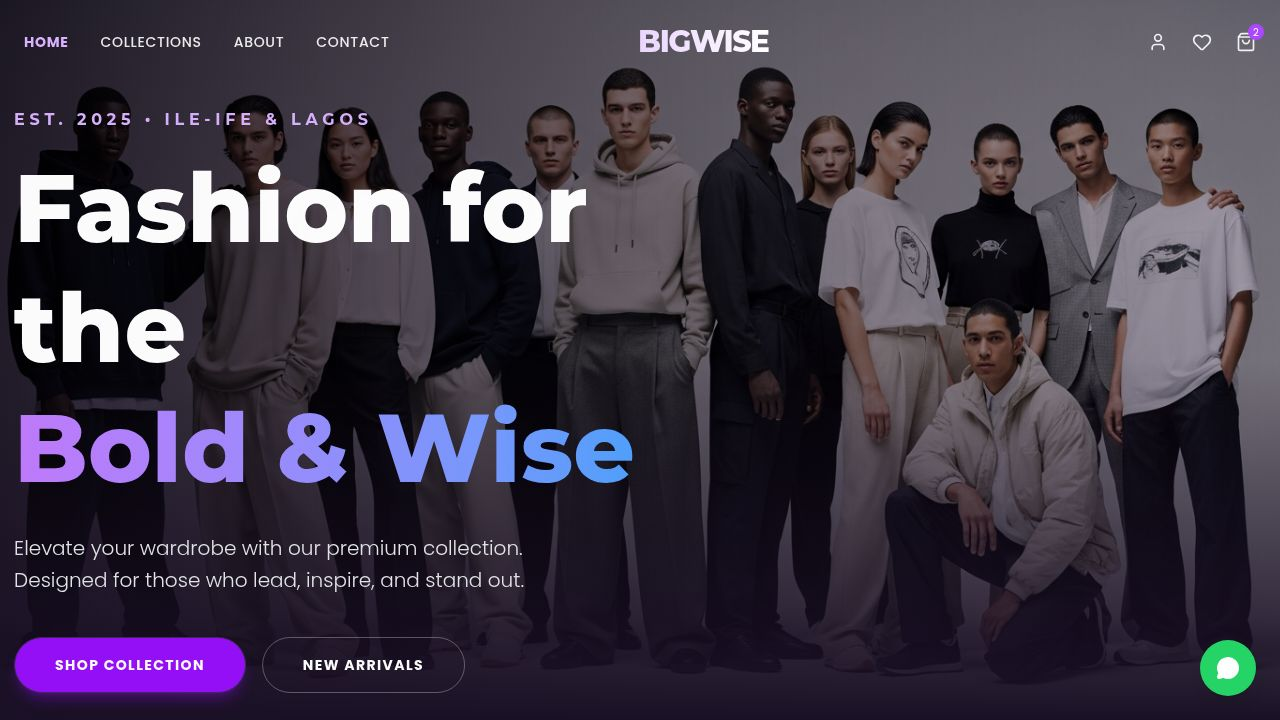
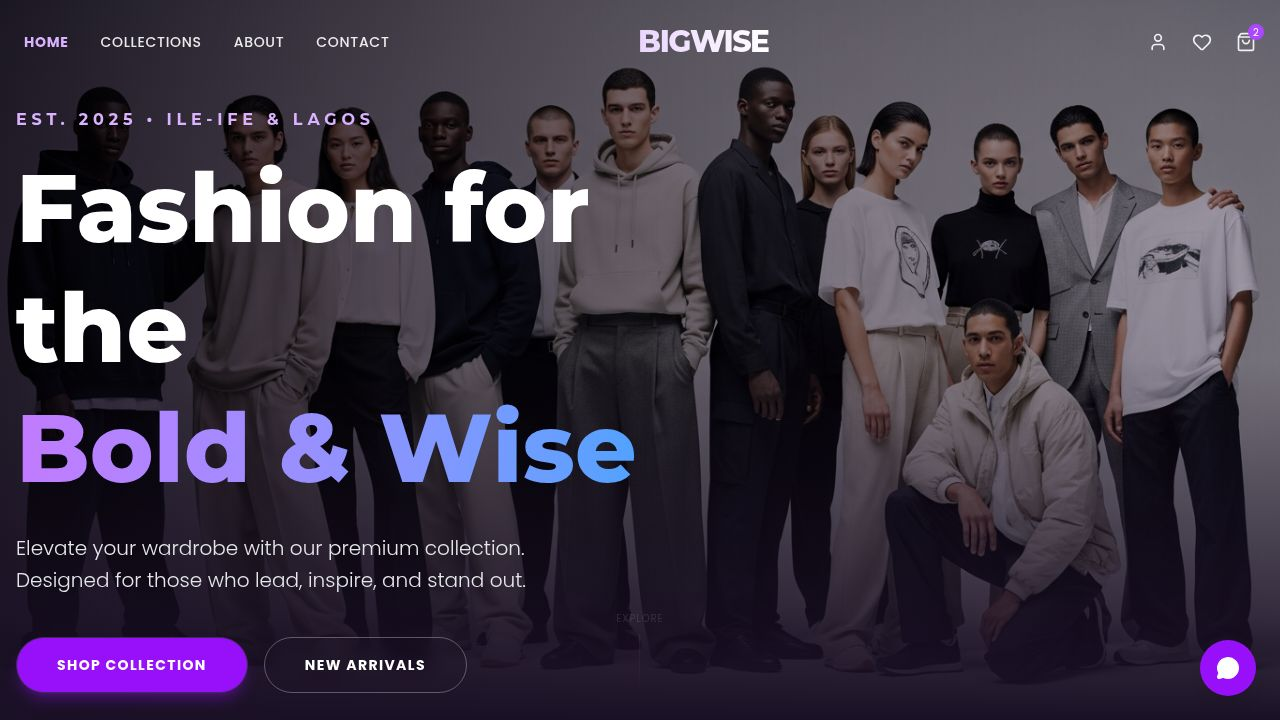
Add direct chat functionality and new shopping sections
Introduces a new chat widget component, replaces the WhatsApp button with a purple chat button, and adds new "Shop by Gender" tiles to the homepage. Also enforces consistent padding and max-width containers across various pages for improved layout and user experience.

Replit-Commit-Author: Agent
Replit-Commit-Session-Id: f035932f-7987-4ced-8709-e658555167ae
Replit-Commit-Checkpoint-Type: full_checkpoint
Replit-Commit-Event-Id: 75c4e75d-5485-4005-87b2-cb719e6a286b
Replit-Commit-Screenshot-Url: https://storage.googleapis.com/screenshot-production-us-central1/88b3463e-c278-4c11-aa2b-143401b9b753/f035932f-7987-4ced-8709-e658555167ae/9nJqeEU
Replit-Helium-Checkpoint-Created: true

diff --git a/client/src/pages/Home.tsx b/client/src/pages/Home.tsx
@@ -1,9 +1,10 @@
 import { Navbar } from "@/components/layout/Navbar";
 import { Footer } from "@/components/layout/Footer";
+import { ChatWidget } from "@/components/ChatWidget";
 import { Hero } from "@/components/home/Hero";
 import { FeaturedCollections } from "@/components/home/FeaturedCollections";
 import { InstagramFeed } from "@/components/home/InstagramFeed";
-import { MessageCircle, Star, ArrowRight, Mail, Camera } from "lucide-react";
+import { Star, ArrowRight, Mail, Camera } from "lucide-react";
 import { Button } from "@/components/ui/button";
 import { Link } from "wouter";
 import { motion } from "framer-motion";
@@ -11,6 +12,8 @@ import trendingImg1 from "@assets/generated_images/male_fashion_model_urban_styl
 import trendingImg2 from "@assets/generated_images/female_fashion_model_elegance.png";
 import trendingImg3 from "@assets/generated_images/fashion_accessories_still_life.png";
 import trendingImg4 from "@assets/generated_images/product_fashion_item_close-up.png";
+import menImg from "@assets/stock_images/black_male_model_wit_21bad727.jpg";
+import womenImg from "@assets/stock_images/light-skinned_girl_w_07bef161.jpg";
 
 // Placeholder for Trending Items
 const trendingItems = [
@@ -32,7 +35,7 @@ export default function Home() {
         
         {/* Trending Section */}
         <section className="py-20 md:py-24 bg-gradient-to-b from-[#1a1025] to-[#251b35] px-4">
-          <div className="container mx-auto">
+          <div className="container mx-auto max-w-7xl">
             <div className="flex flex-col sm:flex-row justify-between items-start sm:items-center mb-12 gap-4">
               <h2 className="text-3xl md:text-4xl font-heading font-bold">Trending Now</h2>
               <Link href="/collections">
@@ -71,9 +74,74 @@ export default function Home() {
           </div>
         </section>
 
+        {/* Shop by Gender Section */}
+        <section className="py-20 md:py-24 bg-gradient-to-b from-[#251b35] to-[#1a1025] px-4">
+          <div className="container mx-auto max-w-7xl">
+            <h2 className="text-3xl md:text-4xl font-heading font-bold mb-12 text-center">Shop By Category</h2>
+            
+            <div className="grid grid-cols-1 md:grid-cols-2 gap-6 md:gap-8">
+              {/* Men Section */}
+              <motion.div
+                initial={{ opacity: 0, x: -50 }}
+                whileInView={{ opacity: 1, x: 0 }}
+                viewport={{ once: true }}
+                transition={{ duration: 0.6 }}
+                className="group cursor-pointer relative overflow-hidden rounded-2xl"
+              >
+                <Link href="/collections">
+                  <a className="block relative">
+                    <div className="aspect-[3/4] overflow-hidden">
+                      <img 
+                        src={menImg} 
+                        alt="Men's Collection" 
+                        className="w-full h-full object-cover group-hover:scale-110 transition-transform duration-700"
+                      />
+                    </div>
+                    <div className="absolute inset-0 bg-gradient-to-t from-black/80 via-black/20 to-transparent flex flex-col justify-end p-8 group-hover:from-black/90 transition-all duration-300">
+                      <h3 className="text-3xl md:text-5xl font-heading font-bold mb-3">MEN</h3>
+                      <p className="text-gray-200 mb-4 text-sm md:text-base">Explore our latest men's collection</p>
+                      <div className="inline-flex items-center gap-2 text-sm uppercase tracking-widest font-bold text-purple-300 group-hover:text-white transition-colors">
+                        Shop Now <ArrowRight size={16} />
+                      </div>
+                    </div>
+                  </a>
+                </Link>
+              </motion.div>
+
+              {/* Women Section */}
+              <motion.div
+                initial={{ opacity: 0, x: 50 }}
+                whileInView={{ opacity: 1, x: 0 }}
+                viewport={{ once: true }}
+                transition={{ duration: 0.6, delay: 0.2 }}
+                className="group cursor-pointer relative overflow-hidden rounded-2xl"
+              >
+                <Link href="/collections">
+                  <a className="block relative">
+                    <div className="aspect-[3/4] overflow-hidden">
+                      <img 
+                        src={womenImg} 
+                        alt="Women's Collection" 
+                        className="w-full h-full object-cover group-hover:scale-110 transition-transform duration-700"
+                      />
+                    </div>
+                    <div className="absolute inset-0 bg-gradient-to-t from-black/80 via-black/20 to-transparent flex flex-col justify-end p-8 group-hover:from-black/90 transition-all duration-300">
+                      <h3 className="text-3xl md:text-5xl font-heading font-bold mb-3">WOMEN</h3>
+                      <p className="text-gray-200 mb-4 text-sm md:text-base">Discover our women's collection</p>
+                      <div className="inline-flex items-center gap-2 text-sm uppercase tracking-widest font-bold text-purple-300 group-hover:text-white transition-colors">
+                        Shop Now <ArrowRight size={16} />
+                      </div>
+                    </div>
+                  </a>
+                </Link>
+              </motion.div>
+            </div>
+          </div>
+        </section>
+
         {/* Become Our Model Section */}
         <section className="py-20 md:py-24 bg-gradient-to-r from-purple-900/30 to-blue-900/30 px-4">
-          <div className="container mx-auto">
+          <div className="container mx-auto max-w-7xl">
             <div className="max-w-3xl mx-auto text-center">
               <motion.div
                 initial={{ opacity: 0, y: 20 }}
@@ -104,7 +172,7 @@ export default function Home() {
         {/* Testimonials */}
         <section className="py-20 md:py-24 relative overflow-hidden px-4">
           <div className="absolute inset-0 bg-purple-900/10 -skew-y-3 transform origin-left scale-110" />
-          <div className="container mx-auto relative z-10">
+          <div className="container mx-auto max-w-7xl relative z-10">
             <h2 className="text-3xl md:text-4xl font-heading font-bold text-center mb-12 md:mb-16">What Our Clients Say</h2>
             <div className="grid grid-cols-1 md:grid-cols-3 gap-6 md:gap-8">
               {[
@@ -130,7 +198,7 @@ export default function Home() {
         {/* Newsletter */}
         <section className="py-20 md:py-24 bg-purple-900 text-white relative overflow-hidden px-4">
           <div className="absolute inset-0 bg-[url('https://www.transparenttextures.com/patterns/cubes.png')] opacity-10" />
-          <div className="container mx-auto text-center relative z-10">
+          <div className="container mx-auto max-w-7xl text-center relative z-10">
             <Mail className="w-12 h-12 md:w-16 md:h-16 mx-auto mb-6 text-purple-300" />
             <h2 className="text-3xl md:text-5xl font-heading font-bold mb-6">Join the Bigwise Circle</h2>
             <p className="max-w-xl mx-auto text-purple-200 mb-10 text-base md:text-lg">
@@ -153,18 +221,8 @@ export default function Home() {
       </main>
       <Footer />
       
-      {/* Floating Buttons */}
-      <div className="fixed bottom-6 right-6 z-50 flex flex-col gap-4">
-        <a 
-          href="https://wa.me/1234567890" 
-          target="_blank" 
-          rel="noopener noreferrer"
-          className="bg-[#25D366] text-white p-4 rounded-full shadow-lg hover:scale-110 transition-transform duration-300 flex items-center justify-center"
-          aria-label="Chat on WhatsApp"
-        >
-          <MessageCircle size={24} fill="white" />
-        </a>
-      </div>
+      {/* Chat Widget */}
+      <ChatWidget />
     </div>
   );
 }

diff --git a/client/src/components/ChatWidget.tsx b/client/src/components/ChatWidget.tsx
@@ -1,0 +1,107 @@
+import { useState } from "react";
+import { MessageCircle, X, Send } from "lucide-react";
+import { Button } from "@/components/ui/button";
+
+export function ChatWidget() {
+  const [isOpen, setIsOpen] = useState(false);
+  const [messages, setMessages] = useState([
+    { id: 1, text: "Hey! 👋 How can we help you today?", sender: "bot", timestamp: new Date() }
+  ]);
+  const [inputValue, setInputValue] = useState("");
+
+  const handleSendMessage = () => {
+    if (!inputValue.trim()) return;
+
+    const userMessage = {
+      id: messages.length + 1,
+      text: inputValue,
+      sender: "user",
+      timestamp: new Date()
+    };
+
+    setMessages([...messages, userMessage]);
+    setInputValue("");
+
+    // Simulate bot response
+    setTimeout(() => {
+      const botMessage = {
+        id: messages.length + 2,
+        text: "Thanks for reaching out! Our team will get back to you shortly. 💜",
+        sender: "bot",
+        timestamp: new Date()
+      };
+      setMessages(prev => [...prev, botMessage]);
+    }, 500);
+  };
+
+  return (
+    <>
+      {/* Chat Widget Button */}
+      <button
+        onClick={() => setIsOpen(!isOpen)}
+        className="fixed bottom-6 right-6 z-50 bg-purple-600 hover:bg-purple-700 text-white p-4 rounded-full shadow-lg hover:scale-110 transition-transform duration-300 flex items-center justify-center"
+        aria-label="Open chat"
+      >
+        <MessageCircle size={24} fill="white" />
+      </button>
+
+      {/* Chat Modal */}
+      {isOpen && (
+        <div className="fixed bottom-24 right-6 w-96 max-w-[calc(100vw-32px)] bg-[#1a1025] rounded-2xl border border-purple-500/30 shadow-2xl shadow-purple-600/20 flex flex-col h-96 z-50 animate-in slide-in-from-bottom-5">
+          {/* Header */}
+          <div className="bg-gradient-to-r from-purple-600 to-purple-700 px-6 py-4 rounded-t-2xl flex justify-between items-center">
+            <div>
+              <h3 className="font-heading font-bold text-white">Bigwise Chat</h3>
+              <p className="text-xs text-purple-100">We typically reply in minutes</p>
+            </div>
+            <button
+              onClick={() => setIsOpen(false)}
+              className="text-white hover:bg-white/20 p-1 rounded transition-colors"
+            >
+              <X size={20} />
+            </button>
+          </div>
+
+          {/* Messages */}
+          <div className="flex-1 overflow-y-auto p-4 space-y-4">
+            {messages.map((msg) => (
+              <div
+                key={msg.id}
+                className={`flex ${msg.sender === "user" ? "justify-end" : "justify-start"}`}
+              >
+                <div
+                  className={`max-w-xs px-4 py-2 rounded-lg text-sm ${
+                    msg.sender === "user"
+                      ? "bg-purple-600 text-white rounded-br-none"
+                      : "bg-white/10 text-gray-200 rounded-bl-none"
+                  }`}
+                >
+                  {msg.text}
+                </div>
+              </div>
+            ))}
+          </div>
+
+          {/* Input */}
+          <div className="border-t border-white/10 p-4 flex gap-2">
+            <input
+              type="text"
+              value={inputValue}
+              onChange={(e) => setInputValue(e.target.value)}
+              onKeyPress={(e) => e.key === "Enter" && handleSendMessage()}
+              placeholder="Type your message..."
+              className="flex-1 bg-white/5 border border-white/20 rounded-lg px-3 py-2 text-white text-sm placeholder:text-white/50 focus:outline-none focus:border-purple-400 transition-colors"
+            />
+            <button
+              onClick={handleSendMessage}
+              disabled={!inputValue.trim()}
+              className="bg-purple-600 hover:bg-purple-700 disabled:opacity-50 text-white p-2 rounded-lg transition-colors flex items-center justify-center"
+            >
+              <Send size={16} />
+            </button>
+          </div>
+        </div>
+      )}
+    </>
+  );
+}

diff --git a/client/src/pages/Collections.tsx b/client/src/pages/Collections.tsx
@@ -24,7 +24,7 @@ export default function Collections() {
     <div className="min-h-screen flex flex-col bg-[#1a1025] text-white font-sans">
       <Navbar />
       <main className="flex-grow pt-24 md:pt-32 pb-12 px-4">
-        <div className="container mx-auto">
+        <div className="container mx-auto max-w-7xl">
           <div className="text-center mb-12 md:mb-16">
             <h1 className="text-3xl md:text-5xl font-heading font-bold mb-4">All Collections</h1>
             <div className="flex flex-wrap justify-center gap-4 md:gap-6 text-xs md:text-sm uppercase tracking-widest font-medium text-gray-400">

diff --git a/client/src/pages/ProductDetail.tsx b/client/src/pages/ProductDetail.tsx
@@ -36,7 +36,7 @@ export default function ProductDetail() {
     <div className="min-h-screen flex flex-col bg-[#1a1025] text-white font-sans">
       <Navbar />
       <main className="flex-grow pt-24 md:pt-32 pb-20 px-4">
-        <div className="container mx-auto">
+        <div className="container mx-auto max-w-7xl">
           <Link href="/collections">
             <a className="inline-flex items-center gap-2 text-purple-300 hover:text-white mb-8 text-sm font-medium transition-colors">
               <ArrowLeft size={16} /> Back to Collections

diff --git a/client/src/components/home/FeaturedCollections.tsx b/client/src/components/home/FeaturedCollections.tsx
@@ -33,7 +33,7 @@ const collections = [
 export function FeaturedCollections() {
   return (
     <section className="py-20 md:py-24 bg-gradient-to-b from-[#1a1025] to-[#251b35] px-4">
-      <div className="container mx-auto">
+      <div className="container mx-auto max-w-7xl">
         <div className="flex flex-col sm:flex-row justify-between items-start sm:items-end mb-12 gap-4">
           <div>
             <h2 className="text-3xl md:text-4xl font-heading font-bold mb-2 md:mb-4">Curated Collections</h2>

diff --git a/client/src/pages/Cart.tsx b/client/src/pages/Cart.tsx
@@ -19,7 +19,7 @@ export default function Cart() {
     <div className="min-h-screen flex flex-col bg-[#1a1025] text-white font-sans">
       <Navbar />
       <main className="flex-grow pt-24 md:pt-32 pb-20 px-4">
-        <div className="container mx-auto">
+        <div className="container mx-auto max-w-7xl">
           <h1 className="text-2xl md:text-4xl font-heading font-bold mb-10">Your Cart</h1>
 
           <div className="grid grid-cols-1 lg:grid-cols-3 gap-8 md:gap-12">

diff --git a/client/src/pages/Wishlist.tsx b/client/src/pages/Wishlist.tsx
@@ -14,7 +14,7 @@ export default function Wishlist() {
     <div className="min-h-screen flex flex-col bg-[#1a1025] text-white font-sans">
       <Navbar />
       <main className="flex-grow pt-24 md:pt-32 pb-20 px-4">
-        <div className="container mx-auto">
+        <div className="container mx-auto max-w-7xl">
           <h1 className="text-2xl md:text-4xl font-heading font-bold mb-10">My Wishlist</h1>
 
           {wishlistItems.length > 0 ? (

diff --git a/client/src/components/layout/Navbar.tsx b/client/src/components/layout/Navbar.tsx
@@ -31,7 +31,7 @@ export function Navbar() {
         scrolled || isOpen ? "bg-[#1a1025]/90 backdrop-blur-md border-white/10 py-4 shadow-lg shadow-purple-900/10" : "bg-transparent py-6"
       )}
     >
-      <div className="container mx-auto px-4 md:px-6">
+      <div className="container mx-auto max-w-7xl px-4 md:px-6">
         <div className="flex items-center justify-between">
           {/* Mobile Menu Button */}
           <button

diff --git a/client/src/pages/About.tsx b/client/src/pages/About.tsx
@@ -9,7 +9,7 @@ export default function About() {
     <div className="min-h-screen flex flex-col bg-[#1a1025] text-white font-sans">
       <Navbar />
       <main className="flex-grow pt-24 md:pt-32 pb-20 px-4">
-        <div className="container mx-auto">
+        <div className="container mx-auto max-w-7xl">
           <motion.div 
             initial={{ opacity: 0, y: 20 }}
             animate={{ opacity: 1, y: 0 }}
